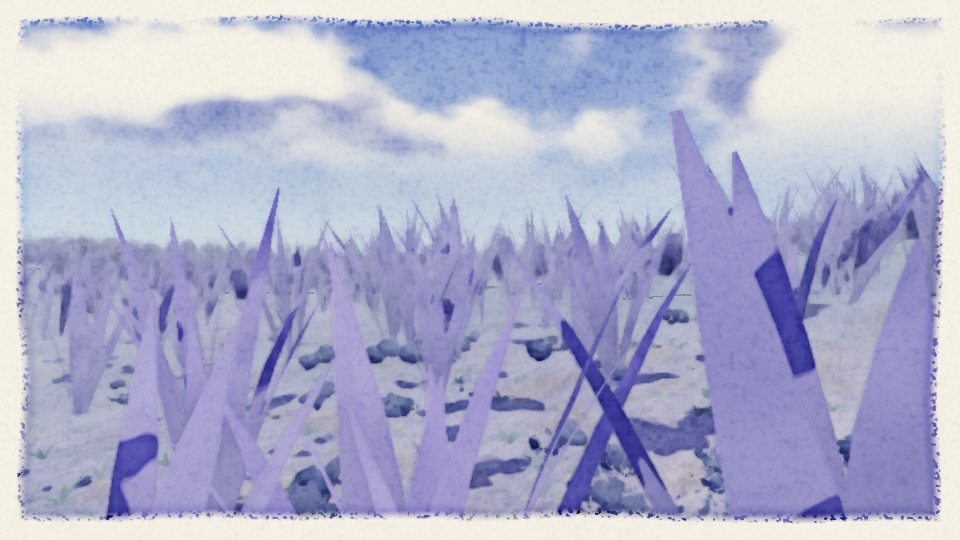
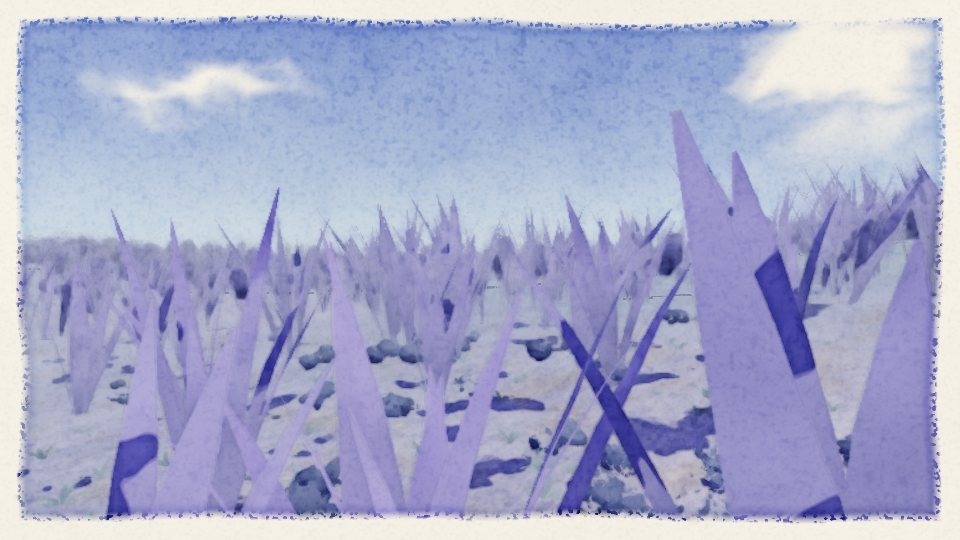
[painter] M2: PHYSICS flora field wired (full bend for undergrowth, lite for bushes and near trees; gallery ?physics=1), Neptune deck, fungus stalks, wandering shores, violet shade glaze, more evidence

Changed region(s): [[0.0, 0.0296, 0.6875, 0.3259], [0.6875, 0.0296, 1.0, 0.2963], [0.5625, 0.0593, 0.625, 0.1185]]

diff --git a/src/world/flora.js b/src/world/flora.js
@@ -13,7 +13,7 @@ import * as THREE from 'three';
 import { getSurface } from './surface.js';
 import { dirToFace, faceToDir, nodeSize } from './cubesphere.js';
 import { INST_STRIDE, U_GRASS, U_FERN, U_BUSH, U_ROCK, U_FLOWER, U_STONE, U_REED, U_SHARD } from './floraplace.js';
-import { TALL_KITS, farTreeGeometry, grassGeometry, reedGeometry, fernGeometry, bushGeometry, rockGeometry, flowerGeometry, shardGeometry } from './florakit.js';
+import { FLORA_PHYS, TALL_KITS, farTreeGeometry, grassGeometry, reedGeometry, fernGeometry, bushGeometry, rockGeometry, flowerGeometry, shardGeometry } from './florakit.js';
 import { makePropMaterial } from '../render/materials.js';
 import { treeCell, underCell, hasCell, TREE_LEVEL, UNDER_LEVEL } from './obstacles.js';
 import { QUALITY } from '../render/shared.js';
@@ -62,7 +62,7 @@ export class Flora {
     this.ready = true;
     const bodyUniforms = this.bodyUniforms, L = this.look;
     this.species = L.tall.map((sp, i) => {
-      const mat = makePropMaterial(bodyUniforms, { name: 'tall-' + sp.kit + i, barkA: sp.bark[0], barkB: sp.bark[1], leafA: sp.leaf[0], leafB: sp.leaf[1], leafC: sp.leaf[2], barkP: sp.barkP, leafP: sp.leafP, wind: sp.wind == null ? 0.03 : sp.wind, doubleSide: !!sp.double });
+      const mat = makePropMaterial(bodyUniforms, { name: 'tall-' + sp.kit + i, barkA: sp.bark[0], barkB: sp.bark[1], leafA: sp.leaf[0], leafB: sp.leaf[1], leafC: sp.leaf[2], barkP: sp.barkP, leafP: sp.leafP, wind: sp.wind == null ? 0.03 : sp.wind, doubleSide: !!sp.double, phys: 'lite', stiff: sp.kit === 'kelp' ? 0.1 : 1, plantHeight: (FAR_DIMS[sp.kit] || [0, 10])[1] });
       const gen = TALL_KITS[sp.kit];
       const fd = sp.kit === 'crystal' && sp.thin ? [1.8, 8, 0.9] : FAR_DIMS[sp.kit];
       return { mat, geo0: [gen(11 + i * 10, 0, sp), gen(12 + i * 10, 0, sp)], geo1: gen(13 + i * 10, 1, sp), far: fd, pine: sp.kit === 'conifer' };
@@ -74,8 +74,8 @@ export class Flora {
         name: 'far-tree', leafP: [0.9, 0.12, 1.0, 0.45], wind: 0.04,
         far: L.tall.map((sp, i) => ({ leafA: sp.leaf[0], leafB: sp.leaf[1], leafC: sp.leaf[2], barkA: sp.bark[0], barkB: sp.bark[1], taper: this.species[i].far[2], trunk: sp.kit === 'broadleaf' || sp.kit === 'conifer' || sp.kit === 'fungus' })),
       }) : null,
-      under: makePropMaterial(bodyUniforms, { name: 'under', leafA: U.leaf[0], leafB: U.leaf[1], leafC: U.leaf[2], accent: U.accent, wind: 0.07, doubleSide: true }),
-      bush: makePropMaterial(bodyUniforms, { name: 'bush', leafA: U.bush[0], leafB: U.bush[1], leafC: U.bush[2], leafP: [0.85, 0.3, 1.0, 0.25], wind: 0.04 }),
+      under: makePropMaterial(bodyUniforms, { name: 'under', leafA: U.leaf[0], leafB: U.leaf[1], leafC: U.leaf[2], accent: U.accent, wind: 0.07, doubleSide: true, phys: 'full', stiff: 0, plantHeight: 0.5 }),
+      bush: makePropMaterial(bodyUniforms, { name: 'bush', leafA: U.bush[0], leafB: U.bush[1], leafC: U.bush[2], leafP: [0.85, 0.3, 1.0, 0.25], wind: 0.04, phys: 'lite', stiff: FLORA_PHYS.bush.stiffness, plantHeight: FLORA_PHYS.bush.height }),
       rock: makePropMaterial(bodyUniforms, { name: 'rock', barkA: U.rock[0], barkB: U.rock[1], wind: 0 }),
       shard: makePropMaterial(bodyUniforms, { name: 'shard', barkA: sh[0], barkB: sh[1], wind: 0 }),
     };
@@ -108,6 +108,7 @@ export class Flora {
       u.uOrigin.value.copy(origin);
       u.uCamLocal.value.copy(camRel.subVectors(flora.camLocal, origin));
       u.uLod.value.set(lodv.x * k, lodv.y * k, lodv.z, lodv.w);
+      if (u.uPlantHeight && mesh.userData.plantH) u.uPlantHeight.value = mesh.userData.plantH;
       material.uniformsNeedUpdate = true;
     };
     mesh.userData.inst = inst; mesh.userData.inst2 = inst2;
@@ -268,6 +269,7 @@ export class Flora {
       mesh.count = list.length;
       mesh.instanceMatrix.needsUpdate = true; mesh.userData.inst.needsUpdate = true;
       mesh.userData.near = near; mesh.userData.skipLow = !!skipLow;
+      mesh.userData.plantH = geo === this.kit.reed ? FLORA_PHYS.reed.height : geo === this.kit.fern ? FLORA_PHYS.fern.height : geo === this.kit.flower ? FLORA_PHYS.flower.height : FLORA_PHYS.grass.height;
       if (skipLow && QUALITY.level === 0) mesh.visible = false;
     };
     // grass: the seed (0..1) sets how far each tuft is drawn; short-range tufts get their own

diff --git a/src/render/materials.js b/src/render/materials.js
@@ -3,7 +3,8 @@
 // value-stepped light, cool glaze shadows, dry-brush sparkle, banded aerial perspective. The
 // post passes (post.js) then treat the result as wet paint on paper.
 import * as THREE from 'three';
-import { G, ensureGlobals, makeBodyUniforms } from './shared.js';
+import { G, PHYS, ensureGlobals, makeBodyUniforms } from './shared.js';
+import { FLORA_GLSL } from '../physics/flora.glsl.js';
 import { VERT_PARS, VERT_END, FRAG_PARS } from './chunks.js';
 
 const FOG_VERT = /* glsl */`
@@ -128,6 +129,7 @@ void main() {
   x += (n1.g - 0.5) * 0.10 + (st.b - 0.5) * 0.06 * near;
   float lvl = pcLevel(x, 0.045);
   c = pcTone(c, lvl);
+  c = mix(c, c * vec3(0.84, 0.83, 1.04), (1.0 - sunny) * 0.55);
 
   // dry brush on rough ground: broken strokes, paper sparkling through
   float dryM = smoothstep(0.50, 0.64, st2.r * 0.75 + st.r * 0.35 + (n2.r - 0.5) * 0.25);
@@ -338,8 +340,14 @@ varying vec4 vData;
 varying vec4 vInst;
 varying float vFog;
 
-// MOTION: the one place flora moves. Returns the local offset of a vertex for a given sway
-// weight. PHYSICS' wind / disturbance field replaces the body of this function (C14).
+// MOTION. With PHYSICS' field (uPhysOn) plants bend as loaded stems: wind, gusts, things
+// pushing through them (C14). Without it, this gentle sway stands in.
+#ifdef PC_PHYS
+${FLORA_GLSL}
+uniform float uPhysOn;
+uniform float uStiff;
+uniform float uPlantHeight;
+#endif
 vec3 pcSway(float w, float phase) {
   float a = sin(uTime * 1.1 + phase) * 0.6 + sin(uTime * 2.7 + phase * 1.9) * 0.3;
   float b = cos(uTime * 0.8 + phase * 1.3) * 0.6;
@@ -368,8 +376,22 @@ void main() {
     // rock-like kinds have no trunk: the form stands on the ground
     lp = mix(lp * mix(uFarTrunk[fsi], 1.0, crown), vec3(lp.x * 1.5, (lp.y - 0.30) * 1.45, lp.z * 1.5), crown * (1.0 - uFarTrunk[fsi]));
   #endif
-  lp += pcSway(aData.x, inst.z * 6.283 + dot(io, vec3(0.11, 0.07, 0.13))) / max(length(im[0].xyz), 0.001);
-  vec3 wp = (im * vec4(lp * vis, 1.0)).xyz;
+  vec3 sw = pcSway(aData.x, inst.z * 6.283 + dot(io, vec3(0.11, 0.07, 0.13))) / max(length(im[0].xyz), 0.001);
+  #ifdef PC_PHYS
+    vec3 wp = (im * vec4(lp + sw * (1.0 - uPhysOn), 1.0)).xyz;
+    if (uPhysOn > 0.5) {
+      vec3 rootB = io + uOrigin;
+      #ifdef PC_PHYS_FULL
+        vec2 bend = pcPhysBend(rootB, uStiff).xy;
+      #else
+        vec2 bend = pcPhysBendLite(rootB, uStiff);
+      #endif
+      wp = io + pcPhysDisplace(wp - io, normalize(rootB), uPlantHeight * length(im[1].xyz), bend);
+    }
+    wp = io + (wp - io) * vis;
+  #else
+    vec3 wp = (im * vec4((lp + sw) * vis, 1.0)).xyz;
+  #endif
   vBody = wp + uOrigin;
   vObj = position;
   mat3 ir = mat3(im);
@@ -553,6 +575,11 @@ export function makePropMaterial(bodyU, opts = {}) {
     uCanopy: { value: opts.canopy == null ? 1.0 : opts.canopy },
   };
   const defines = {};
+  if (opts.phys) {
+    defines.PC_PHYS = 1;
+    if (opts.phys === 'full') defines.PC_PHYS_FULL = 1;
+    Object.assign(own, PHYS, { uStiff: { value: opts.stiff || 0 }, uPlantHeight: { value: opts.plantHeight || 1 } });
+  }
   if (opts.far) {
     // far trees of every species share one mesh: per-instance species picks the washes
     defines.PC_FAR = 1;

diff --git a/src/render/shared.js b/src/render/shared.js
@@ -71,3 +71,33 @@ export const SHEET = {
 // Quality tier (0 low, 1 medium, 2 high): set by the painter, read by the world to scale how
 // far flora is drawn.
 export const QUALITY = { level: 1 };
+
+// PHYSICS' flora field (COORDINATOR C14): three float textures and their uniforms, shared by
+// every plant material. The world fills them from physics.fields.flora each frame; until then
+// uPhysOn is 0 and plants use the painter's own gentle sway.
+function blank() {
+  const t = new THREE.DataTexture(new Float32Array(16), 2, 2, THREE.RGBAFormat, THREE.FloatType);
+  t.minFilter = t.magFilter = THREE.NearestFilter; t.needsUpdate = true; return t;
+}
+export const PHYS = {
+  uPhysBend: { value: blank() }, uPhysWind: { value: blank() }, uPhysPush: { value: blank() },
+  uPhysAnchor: { value: new THREE.Vector3() }, uPhysEast: { value: new THREE.Vector3(1, 0, 0) },
+  uPhysNorth: { value: new THREE.Vector3(0, 0, -1) }, uPhysUp: { value: new THREE.Vector3(0, 1, 0) },
+  uPhysWindMap: { value: new THREE.Vector4(0, 0, 1, 2) }, uPhysNearMap: { value: new THREE.Vector4(0, 0, 1, 2) },
+  uPhysWave: { value: new THREE.Vector4(1, 0, 0.1, 0) }, uPhysWavePhase: { value: new THREE.Vector4() },
+  uPhysShape: { value: new THREE.Vector4(1, 1, 1, 1) }, uPhysOn: { value: 0 },
+};
+let _physV = -1, _physP = -1, _physF = null;
+export function syncPhysFlora(F) {
+  if (!F || !F.bend) { PHYS.uPhysOn.value = 0; return; }
+  if (F !== _physF) {
+    _physF = F;
+    const mk = (arr, n) => { const t = new THREE.DataTexture(arr, n, n, THREE.RGBAFormat, THREE.FloatType); t.minFilter = t.magFilter = THREE.NearestFilter; t.needsUpdate = true; return t; };
+    PHYS.uPhysBend.value = mk(F.bend, F.size); PHYS.uPhysWind.value = mk(F.wind, F.size); PHYS.uPhysPush.value = mk(F.push, F.nearSize);
+    _physV = _physP = -1;
+  }
+  if (F.version !== _physV) { PHYS.uPhysBend.value.needsUpdate = true; PHYS.uPhysWind.value.needsUpdate = true; _physV = F.version; }
+  if (F.pushVersion !== _physP) { PHYS.uPhysPush.value.needsUpdate = true; _physP = F.pushVersion; }
+  for (const k in F.uniforms) if (PHYS[k]) PHYS[k].value.fromArray(F.uniforms[k]);
+  PHYS.uPhysOn.value = 1;
+}

diff --git a/src/data/looks.js b/src/data/looks.js
@@ -217,8 +217,8 @@ export const LOOKS = {
     sky: mkSky([0.90, 0.76, 0.40], [0.99, 0.91, 0.62], { glaze: [0.74, 0.62, 0.66], light: [1.0, 0.94, 0.72], cloudShade: [0.86, 0.66, 0.44] }),
     flora: {
       tall: [
-        { kit: 'fungus', scale: 1.0, bark: [[0.96, 0.90, 0.72], [0.62, 0.46, 0.34]], leaf: [[0.96, 0.74, 0.34], [0.88, 0.56, 0.30], [0.60, 0.34, 0.28]], barkP: [0.62, 1, 1.2, 0.4], leafP: [0.35, 0.0, 1.0, 0.4], wind: 0.03, far: [10, 14, 0.0], obs: [0.7, 14] },
-        { kit: 'fungus', scale: 0.6, bark: [[0.94, 0.86, 0.76], [0.58, 0.42, 0.40]], leaf: [[0.92, 0.60, 0.62], [0.80, 0.44, 0.50], [0.52, 0.30, 0.40]], barkP: [0.62, 1, 1.2, 0.4], leafP: [0.35, 0.0, 1.0, 0.4], wind: 0.03, far: [7, 9, 0.0], obs: [0.5, 8] },
+        { kit: 'fungus', scale: 1.0, bark: [[0.96, 0.90, 0.72], [0.62, 0.46, 0.34]], leaf: [[0.96, 0.74, 0.34], [0.88, 0.56, 0.30], [0.60, 0.34, 0.28]], barkP: [0.74, 0, 1.6, 0.4], leafP: [0.35, 0.0, 1.0, 0.4], wind: 0.03, far: [10, 14, 0.0], obs: [0.7, 14] },
+        { kit: 'fungus', scale: 0.6, bark: [[0.94, 0.86, 0.76], [0.58, 0.42, 0.40]], leaf: [[0.92, 0.60, 0.62], [0.80, 0.44, 0.50], [0.52, 0.30, 0.40]], barkP: [0.74, 0, 1.6, 0.4], leafP: [0.35, 0.0, 1.0, 0.4], wind: 0.03, far: [7, 9, 0.0], obs: [0.5, 8] },
         { kit: 'spire', scale: 0.8, bark: [[0.50, 0.44, 0.46], [0.22, 0.20, 0.26]], leaf: [[0.50, 0.44, 0.46], [0.36, 0.32, 0.36], [0.22, 0.20, 0.26]], far: [7, 12, 0.85], obs: [1.6, 9] },
       ],
       under: { leaf: [[0.92, 0.80, 0.40], [0.80, 0.62, 0.34], [0.56, 0.40, 0.30]], accent: [0.86, 0.36, 0.46], bush: [[0.90, 0.66, 0.36], [0.74, 0.48, 0.32], [0.48, 0.30, 0.30]], rock: [[0.62, 0.56, 0.56], [0.30, 0.27, 0.32]], shard: [[0.96, 0.94, 0.60], [0.70, 0.74, 0.40]] },
@@ -281,7 +281,7 @@ export const LOOKS = {
   },
 
   neptune: {
-    seed: 'neptune-3', seaLevel: 0, cloud: 0.6, visibility: [460, 2800],
+    seed: 'neptune-3', seaLevel: 0, cloud: 0.42, visibility: [460, 2800], bands: 0.8, deck: [0.46, 0.56, 0.90],
     sky: mkSky([0.34, 0.46, 0.84], [0.80, 0.88, 0.98], { glaze: [0.60, 0.64, 0.88], light: [0.95, 0.97, 1.0] }),
     flora: {
       tall: [

diff --git a/src/art/gallery.js b/src/art/gallery.js
@@ -173,6 +173,15 @@ function fly(dt) {
   if (state.pos.length() < g) state.pos.copy(d).multiplyScalar(g);
 }
 
+// PHYSICS in the gallery (?physics=1): wind, gusts and bending plants from src/physics
+let physics = null;
+if (P.get('physics') === '1') {
+  import('../physics/index.js').then((m) => {
+    physics = m.createPhysics({ sampleSurface: (id, d) => world.sampleSurface(id, d) });
+    world.setPhysics(physics);
+  }).catch((e) => console.warn('physics not available: ' + e.message));
+}
+
 // --- start ----------------------------------------------------------------------------------
 function resize() {
   const w = Math.max(2, Math.floor(canvas.clientWidth * Math.min(devicePixelRatio || 1, 2)));
@@ -220,6 +229,11 @@ function tick(now) {
   placeBodies();
   if (explorer) { placeModel(explorer, Math.sin(state.yaw) * 5 + 1.5, Math.cos(state.yaw) * 5); explorer.animate({ mode: 'idle' }, dt); }
   if (ship) { placeModel(ship, Math.sin(state.yaw) * 14 - 6, Math.cos(state.yaw) * 14); ship.animate({ mode: 'landed' }, dt); }
+  if (physics) {
+    const up = state.pos.clone().normalize();
+    const L0 = world.getLighting();
+    physics.update(frozenT != null ? 1 / 30 : dt, { bodyId, focus: up.multiplyScalar(groundRadius(up)), sunDir: world.bodyUniforms(bodyId).uSunDirL.value });
+  }
   world.update(dt, camera.position, bodyId);
   if (!settled) {
     // keep building until two updates in a row find nothing left to do (each finished level
@@ -238,5 +252,5 @@ function tick(now) {
   if (frames % 20 === 0) $('stat').textContent = `${painter.info.internalWidth}x${painter.info.internalHeight} internal, ${renderer.info.render.calls} draws, ${(renderer.info.render.triangles / 1000) | 0}k tris, alt ${L.altitude.toFixed(0)} m`;
   requestAnimationFrame(tick);
 }
-window.__pcGallery = { state, world, painter, camera, renderer, scene };
+window.__pcGallery = { state, world, painter, camera, renderer, scene, get physics() { return physics; } };
 requestAnimationFrame(tick);

diff --git a/src/world/surface.js b/src/world/surface.js
@@ -281,7 +281,7 @@ class Surface {
       const n = A.fbm(x * f - 9.0, y * f + 2.0, z * f + 14.0, 4, 2.0, 0.5);
       let hh = n * 70 - 9;
       if (hh > 1.5) hh += smoothstep(1.5, 8, hh) * 24 + C.n3(x * R / 40, y * R / 40, z * R / 40) * 2.2 * smoothstep(8, 20, hh);
-      h = hh + C.n3(x * R / 9, y * R / 9 + 2.0, z * R / 9) * 0.25;
+      h = hh + C.n3(x * R / 9, y * R / 9 + 2.0, z * R / 9) * 0.25 + (C.n3(x * R / 37 + 4.0, y * R / 37, z * R / 37) * 2.6 + C.n3(x * R / 11 - 2.0, y * R / 11, z * R / 11 + 6.0) * 0.9) * (1 - smoothstep(3, 16, Math.abs(hh)));
       t = clamp((h + 2) / 34, 0, 1); dry = 0.25 + 0.5 * t; wet = h < 1 ? 0.6 : 0.2;
       lq = this.sea == null ? 0 : this.sea;
       grow = bi.tallWet ? (1 - smoothstep(-14, -3, h)) * smoothstep(-34, -20, h) * 1.0 + smoothstep(-3, 0, h) * 0 : smoothstep(3, 9, h);
@@ -328,7 +328,7 @@ class Surface {
       const f = R / 520, amp = T.amp || 150;
       const n = A.fbm(x * f + 5.0, y * f - 7.0, z * f + 2.0, 3, 2.0, 0.5);
       const isl = smoothstep(-0.02, 0.26, n);
-      h = -46 + isl * amp + n * 36 + C.n3(x * R / 18, y * R / 18, z * R / 18) * 0.6;
+      h = -46 + isl * amp + n * 36 + C.n3(x * R / 18, y * R / 18, z * R / 18) * 0.6 + (C.n3(x * R / 37 + 4.0, y * R / 37, z * R / 37) * 3.2 + C.n3(x * R / 9 - 2.0, y * R / 9, z * R / 9 + 6.0) * 1.1) * (1 - smoothstep(4, 22, Math.abs(-46 + isl * amp + n * 36)));
       t = isl; dry = 0.3; wet = 0.35;
       lq = this.sea == null ? 0 : this.sea;
       grow = smoothstep(6, 16, h);

diff --git a/src/world/florakit.js b/src/world/florakit.js
@@ -287,9 +287,9 @@ export function flowerGeometry(seed) {
 // A fungal tower: a pale leaning stalk under a broad drooping cap, with a smaller cap or two.
 export function fungusGeometry(seed, lod) {
   const rnd = mulberry32(seed), B = new Builder();
-  const H = 12 + rnd() * 5, lean = (rnd() - 0.5) * 2.5, lz = (rnd() - 0.5) * 1.6;
-  const segs = lod ? 2 : 6, sides = lod ? 4 : 7, pts = [], rad = [];
-  for (let i = 0; i <= segs; i++) { const t = i / segs; pts.push(V(lean * t * t + (lod ? 0 : (rnd() - 0.5) * 0.12), t * H, lz * t * t)); rad.push((0.62 - 0.26 * t) * (i === 0 ? 1.4 : 1) * (0.9 + rnd() * 0.2)); }
+  const H = 12 + rnd() * 5, lean = (rnd() - 0.5) * 4.5, lz = (rnd() - 0.5) * 3.0, bend = (rnd() - 0.5) * 3.0, ph = rnd() * 3;
+  const segs = lod ? 3 : 8, sides = lod ? 4 : 7, pts = [], rad = [];
+  for (let i = 0; i <= segs; i++) { const t = i / segs; pts.push(V(lean * t * t + bend * Math.sin(t * 3.0 + ph) * 0.35 * t + (lod ? 0 : (rnd() - 0.5) * 0.18), t * H, lz * t * t + bend * Math.cos(t * 2.2 + ph) * 0.25 * t)); rad.push((0.66 - 0.30 * Math.pow(t, 0.7)) * (i === 0 ? 1.5 : 1) * (0.8 + rnd() * 0.4)); }
   tube(B, pts, rad, sides, { part: 0, swayK: 0.15, swayH: H, hash: rnd() });
   const top = pts[segs], cc = V(top.x, H * 0.9, top.z);
   const r = 4.2 + rnd() * 1.6;

diff --git a/src/world/orbit.js b/src/world/orbit.js
@@ -89,7 +89,7 @@ void main() {
   vec3 nV = normalize(vNV);
   vec3 sunV = normalize((viewMatrix * vec4(uSunDirW, 0.0)).xyz);
   float x = dot(nV, sunV) * 0.5 + 0.5 + (c2 - 0.5) * 0.25;
-  vec3 c = mix(vec3(1.0), mix(uBandA, uBandB, stripe), uCloud.w * 0.85);
+  vec3 c = mix(vec3(1.0), mix(uBandA, uBandB, stripe), 0.30 + uCloud.w * 0.60);
   c = pcDensity(c, 0.8 + smoothstep(th, th + 0.25, v) * 0.7);
   c = pcTone(c, pcLevel(x, 0.08));
   float limb = pow(1.0 - clamp(dot(nV, normalize(-vView)), 0.0, 1.0), 2.5);
@@ -105,7 +105,7 @@ export function makeCloudShell(bodyU, radius, look) {
     uniforms: Object.assign({
       uNoise3D: G.uNoise3D, uStrokeTex: G.uStrokeTex, uTime: G.uTime,
       uCloud: { value: new THREE.Vector4(look.cloud, 2600, 0.0006, look.bands || 0) },
-      uBandA: { value: new THREE.Vector3().fromArray(sky.horizon) }, uBandB: { value: new THREE.Vector3().fromArray(sky.cloudShade) },
+      uBandA: { value: new THREE.Vector3().fromArray(sky.horizon) }, uBandB: { value: new THREE.Vector3().fromArray(look.deck || sky.cloudShade) },
     }, bodyU),
     vertexShader: CLOUD_VERT, fragmentShader: CLOUD_FRAG,
   });

diff --git a/src/world/index.js b/src/world/index.js
@@ -14,7 +14,7 @@ import { sampleObstaclesPure } from './obstacles.js';
 import { makeSky, makeSkyUniforms } from './sky.js';
 import { Flora } from './flora.js';
 import { makeRing, makeCloudShell } from './orbit.js';
-import { makeBodyUniforms, SHEET } from '../render/shared.js';
+import { makeBodyUniforms, SHEET, syncPhysFlora } from '../render/shared.js';
 import { defaultBodyUniforms } from '../render/materials.js';
 
 const _v = new THREE.Vector3(), _v2 = new THREE.Vector3(), _q = new THREE.Quaternion();
@@ -97,6 +97,8 @@ export function createWorld(scene) {
 
   function update(dt, cameraPos, activeBodyId) {
     const active = activeBodyId && state.has(activeBodyId) ? state.get(activeBodyId) : null;
+    // PHYSICS' flora field for the body it is running on (it has already updated this frame)
+    syncPhysFlora(physics && physics.fields && active && (!physics.here || !physics.here.bodyId || physics.here.bodyId === active.id) ? physics.fields.flora : null);
     for (const st of state.values()) {
       const root = st.root;
       root.updateMatrixWorld(true);
